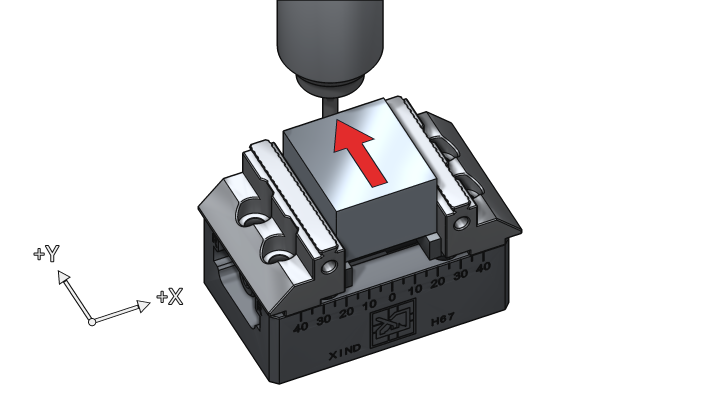
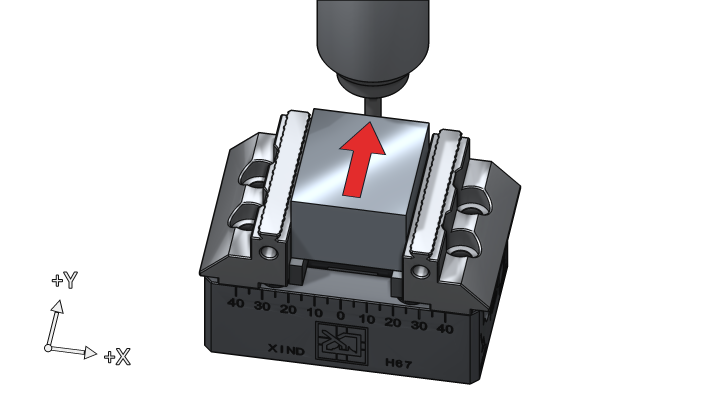
VISE STOP renders: camera swung so +Y points up (about 45 deg clockwise)
Camera azimuth -25 -> +10 to match the operator's view of the machine from
the screen; axis indicator tucked into the corner so it clears the vise.
Images and tap metadata regenerated.

Claude-Session: https://claude.ai/code/session_014oRYSyCokBsp7VNRGXsHZM

Changed region(s): [[0.1222, 0.0, 0.7333, 0.96], [0.0306, 0.6, 0.1833, 0.93]]

diff --git a/tools/vise_render/make_images.py b/tools/vise_render/make_images.py
@@ -90,7 +90,7 @@ def scene(vise, jaws, side):
     return objs, fit, u_pin
 
 
-CAM_AZIMUTH = -25.0     # front-left, the operator's side of the table
+CAM_AZIMUTH = 10.0      # just right of front: +Y points up, leaning right (operator at the screen)
 CAM_ELEVATION = 45.0    # high enough to see the pin over the part
 
 
@@ -113,8 +113,8 @@ def draw_axes(d, cam, size):
     """Corner indicator: +X and +Y machine directions as the camera sees them."""
     from PIL import ImageFont
     font = ImageFont.load_default(size=int(22 * SS))
-    o2 = np.array([92.0, size[1] - 78.0]) * SS          # bottom-left corner
-    L = 62.0 * SS
+    o2 = np.array([48.0, size[1] - 52.0]) * SS          # bottom-left corner
+    L = 50.0 * SS
     zero = cam.project(np.zeros(3))[:2]
     for vec, label in (((1.0, 0, 0), "+X"), ((0, 1.0, 0), "+Y")):
         dv = cam.project(np.array(vec) * 10.0)[:2] - zero

diff --git a/docs/VISE_STOP.md b/docs/VISE_STOP.md
@@ -38,7 +38,8 @@ bottom (parallel top) in Z.**
 The right panel shows the H67 the way it sits on the table (jaws along X
 or Y), with the part centered, the stop pin in the spindle on the chosen side,
 and a red arrow for which way to push the part. Every picture uses the same
-camera (front-left, 45° down), so for jaws along Y the whole vise is simply
+camera (just right of front, 45° down, +Y pointing up and leaning right, the way
+the machine looks from the screen), so for jaws along Y the whole vise is simply
 turned 90° and the +X / +Y indicator in the bottom-left corner points the same
 way in all of them.
 
